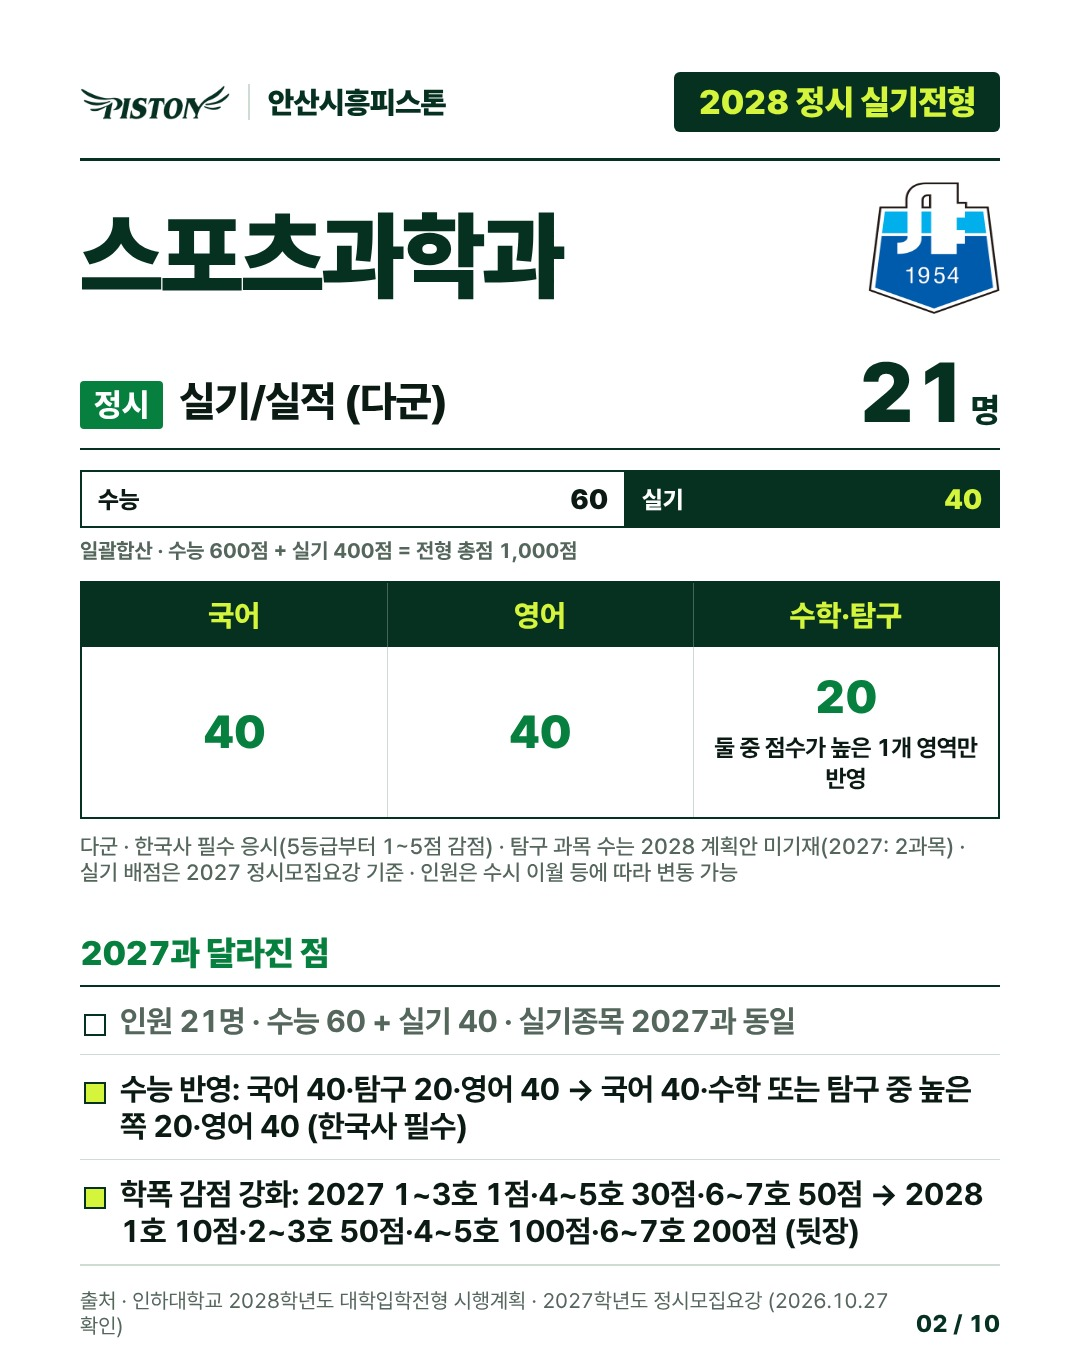
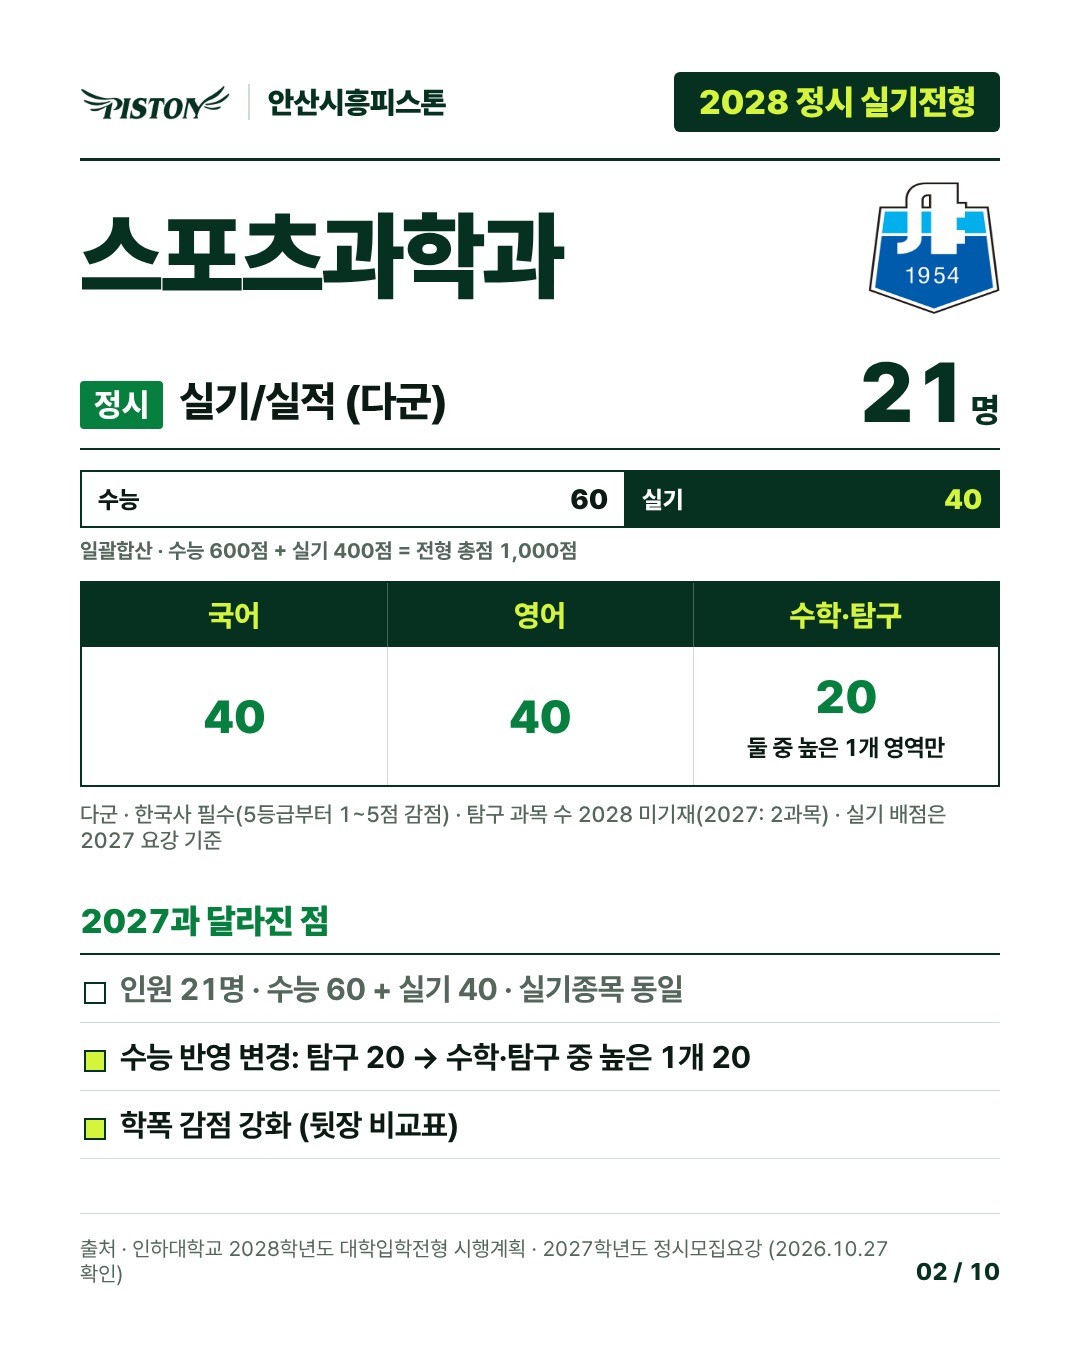
inha: unify 체육교육과 layout, simplify change lists
Claude-Session: https://claude.ai/code/session_01EGTn7G8nWP1yv5M2jqmoFb

Changed region(s): [[0.0611, 0.5289, 0.9167, 0.9956], [0.4583, 0.4978, 0.55, 0.56], [0.1833, 0.4978, 0.2444, 0.56]]

diff --git a/social/out/inha-jeongsi-jeongsi/blog.md b/social/out/inha-jeongsi-jeongsi/blog.md
@@ -11,28 +11,28 @@
 ## 스포츠과학과
 ### 정시 실기/실적 (다군) — 21명
 - 반영비율: 수능 60% + 실기 40% (일괄합산 · 수능 600점 + 실기 400점 = 전형 총점 1,000점)
-- 다군 · 한국사 필수 응시(5등급부터 1~5점 감점) · 탐구 과목 수는 2028 계획안 미기재(2027: 2과목) · 실기 배점은 2027 정시모집요강 기준 · 인원은 수시 이월 등에 따라 변동 가능
+- 다군 · 한국사 필수(5등급부터 1~5점 감점) · 탐구 과목 수 2028 미기재(2027: 2과목) · 실기 배점은 2027 요강 기준
 
 [이미지: post-2.jpg]
 
 ## 체육교육과
 ### 정시 실기/실적 (다군) — 12명
 - 반영비율: 수능 70% + 실기 30% (일괄합산 · 수능 700점 + 실기 300점 = 전형 총점 1,000점)
-- 다군 · 한국사 필수 응시(5등급부터 1~5점 감점) · 탐구 과목 수는 2028 계획안 미기재(2027: 2과목) · 실기 배점은 2027 정시모집요강 기준 · 인원은 수시 이월 등에 따라 변동 가능
+- 다군 · 한국사 필수(5등급부터 1~5점 감점) · 탐구 과목 수 2028 미기재(2027: 2과목) · 실기 배점은 2027 요강 기준
 
 [이미지: post-3.jpg]
 
 ## 2027학년도와 달라진 점
 **스포츠과학과**
-- 인원 21명 · 수능 60 + 실기 40 · 실기종목 2027과 동일
-- 수능 반영: 국어 40·탐구 20·영어 40 → 국어 40·수학 또는 탐구 중 높은 쪽 20·영어 40 (한국사 필수)
-- 학폭 감점 강화: 2027 1~3호 1점·4~5호 30점·6~7호 50점 → 2028 1호 10점·2~3호 50점·4~5호 100점·6~7호 200점 (뒷장)
+- 인원 21명 · 수능 60 + 실기 40 · 실기종목 동일
+- 수능 반영 변경: 탐구 20 → 수학·탐구 중 높은 1개 20
+- 학폭 감점 강화 (뒷장 비교표)
 
 **체육교육과**
 - 인원 12명 · 수능 70 + 실기 30 · 제자리멀리뛰기 2027과 동일
-- 수능 반영: 국어 40·탐구 30·영어 30 → 국어 40·수학 또는 탐구 중 높은 쪽 30·영어 30 (한국사 필수)
-- 실기종목 변경: 10m 왕복달리기 → 20m 왕복달리기
-- 학폭 감점 강화: 2027 1~3호 1점·4~5호 30점·6~7호 50점 → 2028 1호 10점·2~3호 50점·4~5호 100점·6~7호 200점 (뒷장)
+- 수능 반영 변경: 탐구 30 → 수학·탐구 중 높은 1개 30
+- 실기종목 변경: 10m → 20m 왕복달리기
+- 학폭 감점 강화 (뒷장 비교표)
 
 
 
